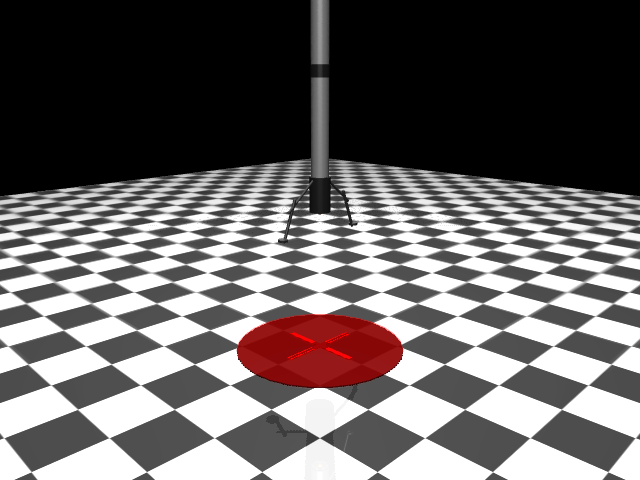
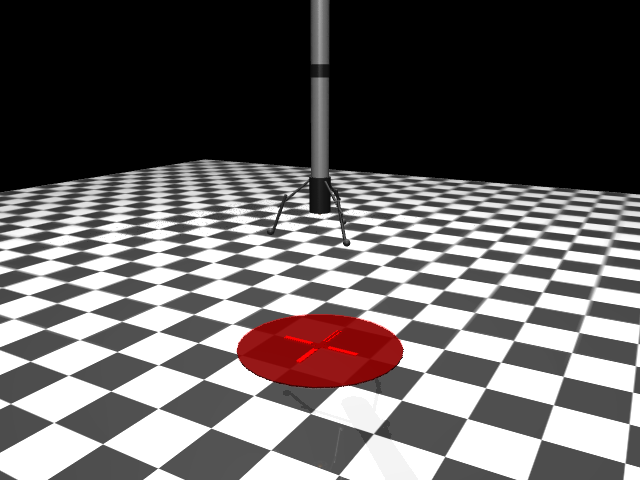
Rename v2 tripod design to v1, remove deprecated two-leg v1
The two-leg v1 design was unused and unstable. Simplify versioning by
removing it and renaming the active tripod v2 → v1. Also mention TorchRL
in the README subtitle.

diff --git a/env/rocket_landing.py b/env/rocket_landing.py
@@ -63,7 +63,7 @@ class RocketLander(MujocoEnv):
 
         Args:
             config: Full RocketEnvConfig object (takes precedence over other args)
-            rocket_design: Rocket design version ("v0", "v1", "v2")
+            rocket_design: Rocket design version ("v0", "v1")
             domain_randomization: Dict of domain randomization settings
             reward_weights: Dict of reward weight overrides
             frame_skip: Number of simulation steps per action
@@ -503,17 +503,17 @@ if __name__ == "__main__":
             break
     env.close()
 
-    # Test with v2 design
-    print("\nTesting v2 design...")
-    env = RocketLander(rocket_design="v2", render_mode="rgb_array", verbose=0)
+    # Test with v1 design
+    print("\nTesting v1 design...")
+    env = RocketLander(rocket_design="v1", render_mode="rgb_array", verbose=0)
     obs, _ = env.reset()
-    print(f"v2: obs shape {obs.shape}, target_z={env.target_position[2]}")
+    print(f"v1: obs shape {obs.shape}, target_z={env.target_position[2]}")
     env.close()
 
     # Test with domain randomization
     print("\nTesting domain randomization...")
     env = RocketLander(
-        rocket_design="v2",
+        rocket_design="v1",
         domain_randomization={"enabled": True},
         render_mode="rgb_array",
     )

diff --git a/env/demo_render.py b/env/demo_render.py
@@ -208,7 +208,7 @@ def main():
     parser.add_argument("--fps", type=int, default=40, help="Video FPS (default: 40)")
     parser.add_argument("--max-steps", type=int, default=1000, help="Max steps per episode")
     parser.add_argument("--output-dir", type=str, default=None, help="Output directory (default: videos/)")
-    parser.add_argument("--rocket-design", type=str, default=None, help="Override rocket design (v0/v1/v2)")
+    parser.add_argument("--rocket-design", type=str, default=None, help="Override rocket design (v0/v1)")
     parser.add_argument("--height", type=float, default=None, help="Override starting height")
     parser.add_argument("--seed", type=int, default=None, help="Random seed for initial conditions")
     args = parser.parse_args()

diff --git a/env/config.py b/env/config.py
@@ -30,8 +30,7 @@ class RocketDesignConfig:
 # target_height = rocket center z-position when landed upright
 ROCKET_DESIGNS: Dict[str, RocketDesignConfig] = {
     "v0": RocketDesignConfig("single_rocket_test.xml", 1.0, "cylinder"),
-    "v1": RocketDesignConfig("rocket_v1_landing_legs.xml", 1.85, "two_legs"),  # Unstable (2 legs)
-    "v2": RocketDesignConfig("rocket_v2_three_legs.xml", 1.93, "tripod"),
+    "v1": RocketDesignConfig("rocket_v1_three_legs.xml", 1.93, "tripod"),
     "demo": RocketDesignConfig("demo_v0.xml", 1.93, "detailed_tripod"),
 }
 

diff --git a/rocket_designs/design_v1.md b/rocket_designs/design_v1.md
@@ -1,24 +1,46 @@
-# Rocket Design v1 - Landing Legs (Deprecated)
-
-> **Note:** Superseded by v2 with three legs for stable tripod landing.
+# Rocket Design v1 - Three Legs (Tripod)
 
 ## Screenshots
 ![Design v1 Angled](screenshots/design_v1.png)
+![Design v1 Top](screenshots/design_v1_top.png)
 ![Design v1 Side](screenshots/design_v1_side.png)
 
 ## Overview
-Falcon 9-inspired rocket with deployed landing legs. Designed for 2D landing scenarios with legs positioned on opposite sides (X-axis).
+Stable tripod landing configuration with 3 legs spaced 120° apart. Provides stable landing in all orientations.
 
 ## Physical Specifications
 
 | Property | Value |
 |----------|-------|
-| Total height | ~3.6 m (body) + legs |
-| Body radius | 0.15 m |
-| Body length | 3.0 m |
-| Total mass | ~10 kg |
-| Leg span | ~1.4 m (tip to tip) |
+| Total height | ~4.1 m (nose to feet) |
+| Body diameter | 0.30 m |
+| Body length | 3.0 m (main cylinder) |
+| Total mass | 9.71 kg |
+| Leg span | ~0.85 m (center to foot) |
 | Starting height | 50 m |
+| Landed center height | 1.93 m |
+
+## Physics Parameters
+
+| Parameter | Value | Notes |
+|-----------|-------|-------|
+| Mass | 9.71 kg | Sum of all components |
+| Weight | 95.3 N | At Earth gravity (9.81 m/s²) |
+| Max vertical thrust | 200 N | thrust_z at ctrl=1.0 |
+| Max lateral thrust | 25 N | thrust_x/y at ctrl=±1.0 |
+| Thrust-to-weight ratio | 2.1 | Can hover at ~48% throttle |
+| Max vertical accel | 10.8 m/s² | Net upward at max thrust |
+| Max lateral accel | 2.6 m/s² | For attitude correction |
+| Timestep | 0.005 s | MuJoCo simulation step |
+| Control rate | 40 Hz | With frame_skip=5 |
+
+## Landing Margin Analysis
+
+From 50m freefall (worst case):
+- Fall time: 3.2 s
+- Impact velocity: 31.3 m/s
+- Stopping distance needed: 48.1 m (at max thrust)
+- **Safety margin: 1.9 m** (tight, requires early thrust)
 
 ## Body Components
 
@@ -26,19 +48,17 @@ Falcon 9-inspired rocket with deployed landing legs. Designed for 2D landing sce
 |------|-------|------|------|
 | Main body | Cylinder | r=0.15, h=3.0m | 8.0 kg |
 | Nose cone | Capsule | r=0.15, h=0.6m | 0.5 kg |
-| Interstage band | Cylinder | r=0.155, h=0.2m | 0.2 kg |
-| Engine section | Cylinder | r=0.18, h=0.6m | 0.5 kg |
+| Interstage band | Cylinder | r=0.155, h=0.2m | 0.1 kg |
+| Engine section | Cylinder | r=0.18, h=0.6m | 0.3 kg |
 
-## Landing Legs (x2)
-Each leg consists of:
+## Landing Legs (x3)
+Three legs evenly spaced at 0°, 120°, 240°:
 - Upper strut: Capsule, angled 50° outward
 - Lower strut: Capsule, angled 20° outward
-- Foot pad: Cylinder, 0.08m radius
-
-Legs are fixed (not deployable) and positioned on ±X axis for 2D landing.
+- Foot pad: Sphere, 0.06m radius (improved ground contact)
+- Mass per leg: ~0.27 kg
 
 ## Actuators
-Same as v0:
 
 | Name | Gear | Range | Purpose |
 |------|------|-------|---------|
@@ -46,27 +66,11 @@ Same as v0:
 | thrust_y | 25 | [-1, 1] | Lateral Y control |
 | thrust_z | 200 | [0, 1] | Main vertical thrust |
 
-## Visual Features
-- White main body with dark interstage band (SpaceX style)
-- Dark engine section at bottom
-- Gray/black landing legs with foot pads
-- Larger landing target (1.5m radius)
-- Additional fill light for better visibility
-
-## Changes from v0
-- Realistic proportions (taller, narrower)
-- Added nose cone
-- Added interstage visual band
-- Added two landing legs with foot pads
-- Better mass distribution
-- Larger landing target
-- Improved lighting
-
-## Limitations
-- Legs are fixed, not deployable
-- Only 2 legs (optimized for 2D, not stable in 3D)
-- No grid fins
-- Thruster position may need adjustment for leg clearance
+## Advantages
+- Stable landing regardless of yaw orientation
+- No preferred landing direction
+- Tripod naturally self-levels on uneven ground
+- More realistic to actual rocket designs (Falcon 9 has 4 legs)
 
 ## XML File
-`env/xml_files/rocket_v1_landing_legs.xml`
+`env/xml_files/rocket_v1_three_legs.xml`

diff --git a/README.md b/README.md
@@ -1,6 +1,6 @@
 # SpaceX Falcon 9 Landing Simulator
 
-Train a reinforcement learning agent to land a rocket on a drone ship, SpaceX Falcon 9 style.
+Train a reinforcement learning agent to land a rocket on a drone ship, SpaceX Falcon 9 style. Built with [TorchRL](https://github.com/pytorch/rl) for training.
 
 <p align="center">
   <img src="docs/demo_aerial.png" width="600" alt="Rocket landing aerial view">
@@ -175,7 +175,7 @@ env/                            Shared environment code
   rewards.py                    Reward calculator
   xml_files/                    MuJoCo XML model files
     single_rocket_test.xml      Training model (v0 cylinder, fast)
-    rocket_v2_three_legs.xml    Full rocket model (v2 tripod with legs)
+    rocket_v1_three_legs.xml    Full rocket model (v1 tripod with legs)
     demo_v0.xml                 Demo scene (ocean, drone ship, sky)
 
 rocket_designs/                 Design docs and screenshots
@@ -185,12 +185,12 @@ rocket_designs/                 Design docs and screenshots
 
 Two models share the same physics (mass, actuators, joint):
 
-| v0 — Training (fast) | v2 — Demo (full detail) |
+| v0 — Training (fast) | v1 — Demo (full detail) |
 |:---------------------:|:-----------------------:|
-| <img src="rocket_designs/screenshots/design_v0.png" width="300"> | <img src="rocket_designs/screenshots/design_v2.png" width="300"> |
+| <img src="rocket_designs/screenshots/design_v0.png" width="300"> | <img src="rocket_designs/screenshots/design_v1.png" width="300"> |
 | Simple cylinder | Tripod with landing legs |
 
-Both have: 10 kg body, free joint (6 DOF), lateral thrust (x/y, 25N), main engine (z, 200N). The policy trained on v0 transfers to v2 since the legs are passive geometry that don't affect the control problem.
+Both have: 10 kg body, free joint (6 DOF), lateral thrust (x/y, 25N), main engine (z, 200N). The policy trained on v0 transfers to v1 since the legs are passive geometry that don't affect the control problem.
 
 ## License
 

diff --git a/rocket_designs/README.md b/rocket_designs/README.md
@@ -7,8 +7,7 @@ This directory tracks iterations of the rocket model design for the SpaceX landi
 | Version | Screenshot | Description | Status | Height | Mass | Landed Z |
 |---------|-----------|-------------|--------|--------|------|----------|
 | [v0](design_v0.md) | <img src="screenshots/design_v0.png" width="120"> | Simple cylinder (baseline) | Deprecated | 2.0 m | 10.0 kg | 1.00 m |
-| [v1](design_v1.md) | <img src="screenshots/design_v1.png" width="120"> | Two landing legs | Deprecated | ~4.1 m | 10.0 kg | 1.85 m |
-| [v2](design_v2.md) | <img src="screenshots/design_v2.png" width="120"> | Three legs (tripod) | **Current** | ~4.1 m | 9.71 kg | 1.93 m |
+| [v1](design_v1.md) | <img src="screenshots/design_v1.png" width="120"> | Three legs (tripod) | **Current** | ~4.1 m | 9.71 kg | 1.93 m |
 
 ## Physics Summary (All Designs)
 
@@ -29,14 +28,11 @@ rocket_designs/
 ├── README.md           # This file
 ├── design_v0.md        # Version 0 documentation
 ├── design_v1.md        # Version 1 documentation
-├── design_v2.md        # Version 2 documentation
 └── screenshots/        # Visual references
     ├── design_v0.png
     ├── design_v1.png
     ├── design_v1_side.png
-    ├── design_v2.png
-    ├── design_v2_side.png
-    └── design_v2_top.png
+    └── design_v1_top.png
 ```
 
 ## Creating a New Design
